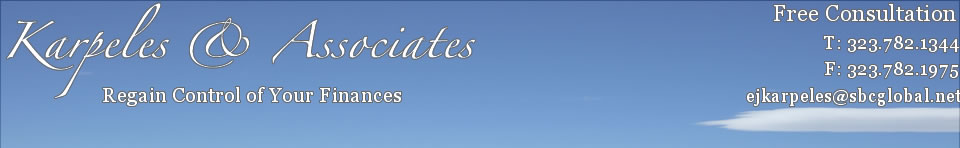
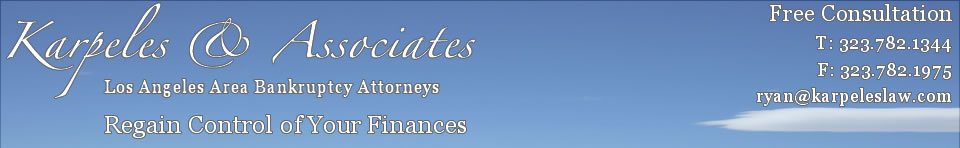
changed masthead

diff --git a/site_media/stylesheets/base.css b/site_media/stylesheets/base.css
@@ -59,7 +59,7 @@ a:hover
 #header
 {
   background-image: url("/site_media/images/masthead.jpg");
-  height: 130px;
+  height: 140px;
   width: 960px;
   background-repeat: no-repeat;
 }
